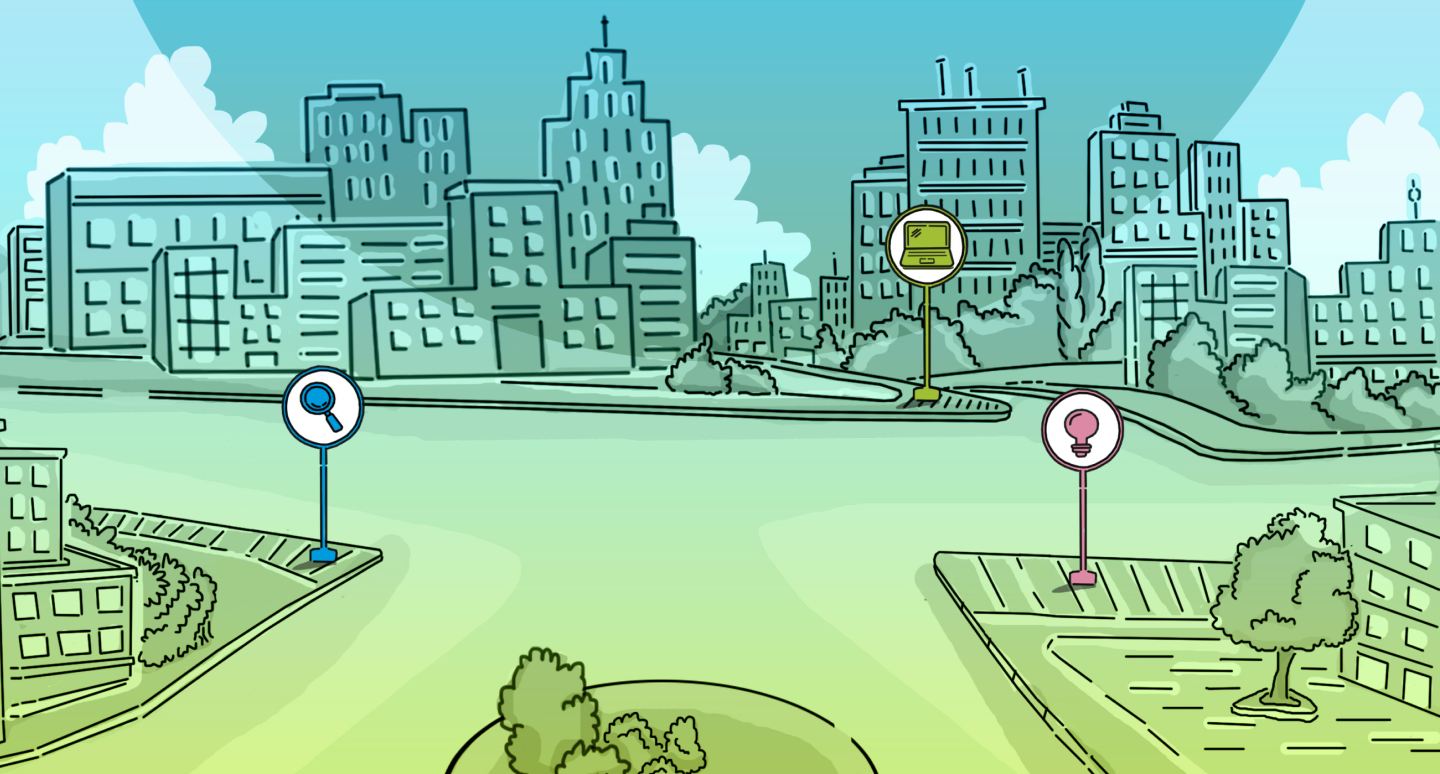
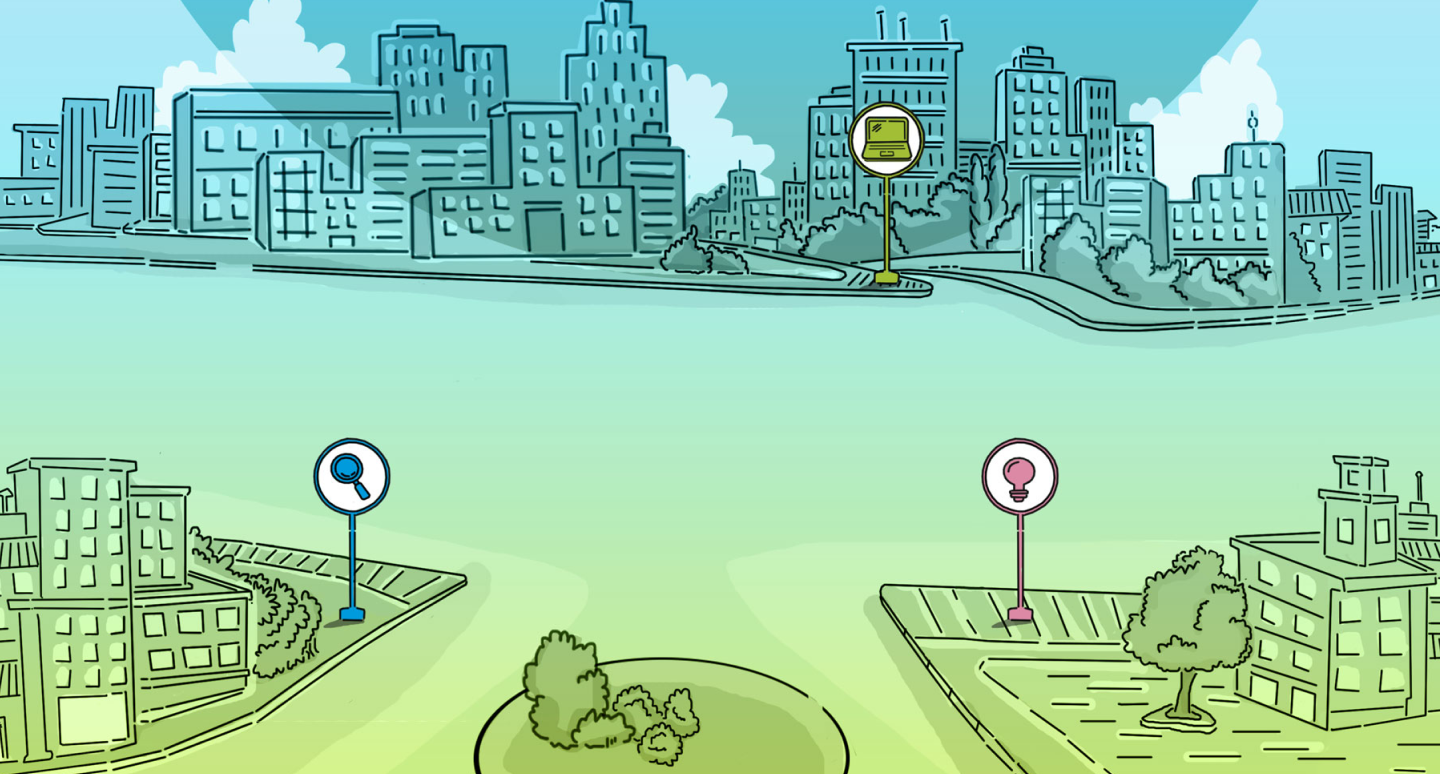
cambios anita

diff --git a/index.html b/index.html
@@ -19,10 +19,10 @@
 
     <!--ENCABEZADO-->
 
-    <div id="inicio" class="jumbotron d-flex min-vh-100 p-2 parallax justify-content-center align-items-center" style="background-image: url(img/bg-portada.png); background-size: cover; background-position: center;">
+    <div id="inicio" class="jumbotron d-flex min-vh-100 p-2 parallax justify-content-center align-items-center" style="background-image: url(img/bg-portada2.png); background-size: cover; background-position: center;">
       <div class="row justify-content-center align-items-center">
         <div class="col justify-content-center align-items-center">
-          <img src="img/logos.png" alt="" style="max-width: 40vw; min-width: 20vw;">
+          <img src="img/logos.png" alt="" style="max-width: 40vw; min-width: 20vw; filter: drop-shadow(0px 0px 5px #B3EDC7);">
           <a href="https://whatsapp.com/channel/0029VaXUIBQCBtx8Kf0UX83t" target="_blank"> <img class="boton-wsp" src="img/canal-wsp.png" alt="" style="max-width: 4em; position: absolute; right: 50px; bottom: 50px;"></a>
           <img src="img/cosito1.png" class="cosito" style="position: absolute; left: 90px; top: 50px;" alt="">
           <img src="img/cosito2.png" class="cosito2" style="position: absolute; right: 90px; top: 50px; transform: rotate(80deg);" alt="">
@@ -42,13 +42,13 @@
           <div class="row justify-content-center">
             
             <!-- VIDEO INSTAGRAM -->
-            <div class="col-md-5 p-2" style="margin: auto;">
-              <iframe width="300" height="525" src="https://www.youtube.com/embed/_7LrKtluvd4" frameborder="0" allowfullscreen=""></iframe>
+            <div class="col-md-4 p-2" style="margin: auto;">
+               <p style="text-align: center;"> <iframe width="300" height="525" src="https://www.youtube.com/embed/_7LrKtluvd4" frameborder="0" allowfullscreen=""></iframe></p>
 
 
             </div>
 
-            <div class="col-md-5" style="margin: auto; color: white; font-size: larger;">
+            <div class="col-md-6" style="margin: auto; color: white; font-size: larger; padding: 0em 1.5em;">
               <p class="azuloscuro">
                 Tecnopresente en línea es un espacio donde te proponemos repensar el oficio de estudiante del nivel Superior desde la integración transversal de tecnologías digitales. 
               </p>
@@ -78,7 +78,7 @@
             </div>
 
             <div class="col recorrido align-items-center justify-content-center" style="height: 40vh; text-align: center; background-image: url(); background-position: center; background-repeat: no-repeat; background-size: contain;">
-              <a href="busco.html">
+              <a href="produzco.html">
                 <button class="boton-recorrido2">
                   PRODUZCO</button>
                   <img class="img-recorrido" src="img/recorrido-produzco.png" alt="">
@@ -87,7 +87,7 @@
             </div>
 
             <div class="col recorrido align-items-center justify-content-center" style="height: 40vh; text-align: center; background-image: url(); background-position: center; background-repeat: no-repeat; background-size: contain;">
-              <a href="busco.html">
+              <a href="reflexiono.html">
                 <button class="boton-recorrido2">
                   REFLEXIONO</button>
                   <img class="img-recorrido" src="img/recorrido-reflexiono.png" alt="">
